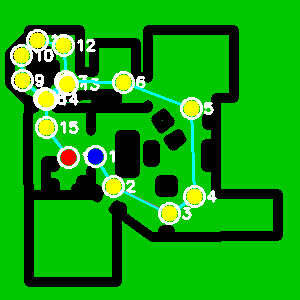
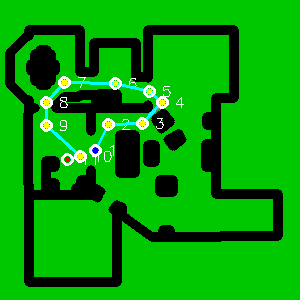
Reduce size of waypoint 'dots' on interactive _wp_selector

Changed region(s): [[0.03, 0.09, 0.72, 0.75]]

diff --git a/interactive_wp_selector.py b/interactive_wp_selector.py
@@ -50,10 +50,10 @@ class InteractivePlanner:
             else:
                 color = (0, 255, 255)     # Intermediate = yellow
 
-            cv2.circle(self.display, (col, row), 8, color, -1)
-            cv2.circle(self.display, (col, row), 10, (255, 255, 255), 2)
+            cv2.circle(self.display, (col, row), 3, color, -1)
+            cv2.circle(self.display, (col, row), 5, (255, 255, 255), 2)
             cv2.putText(self.display, str(i + 1), (col + 12, row + 5),
-                        cv2.FONT_HERSHEY_SIMPLEX, 0.5, (255, 255, 255), 2)
+                        cv2.FONT_HERSHEY_SIMPLEX, 0.5, (255, 255, 255), 1)
 
         # Draw connector lines between waypoints
         if len(self.waypoints) > 1:
@@ -153,8 +153,8 @@ class InteractivePlanner:
         # Redraw waypoints on top of path
         for i, (row, col, wx, wy) in enumerate(self.waypoints):
             color = (255, 0, 0) if i == 0 else (0, 0, 255) if i == len(self.waypoints) - 1 else (0, 255, 255)
-            cv2.circle(self.display, (col, row), 8, color, -1)
-            cv2.circle(self.display, (col, row), 10, (255, 255, 255), 2)
+            cv2.circle(self.display, (col, row), 3, color, -1)
+            cv2.circle(self.display, (col, row), 5, (255, 255, 255), 2)
 
         cv2.imshow(self._win_name(), self._scaled(self.display))
 